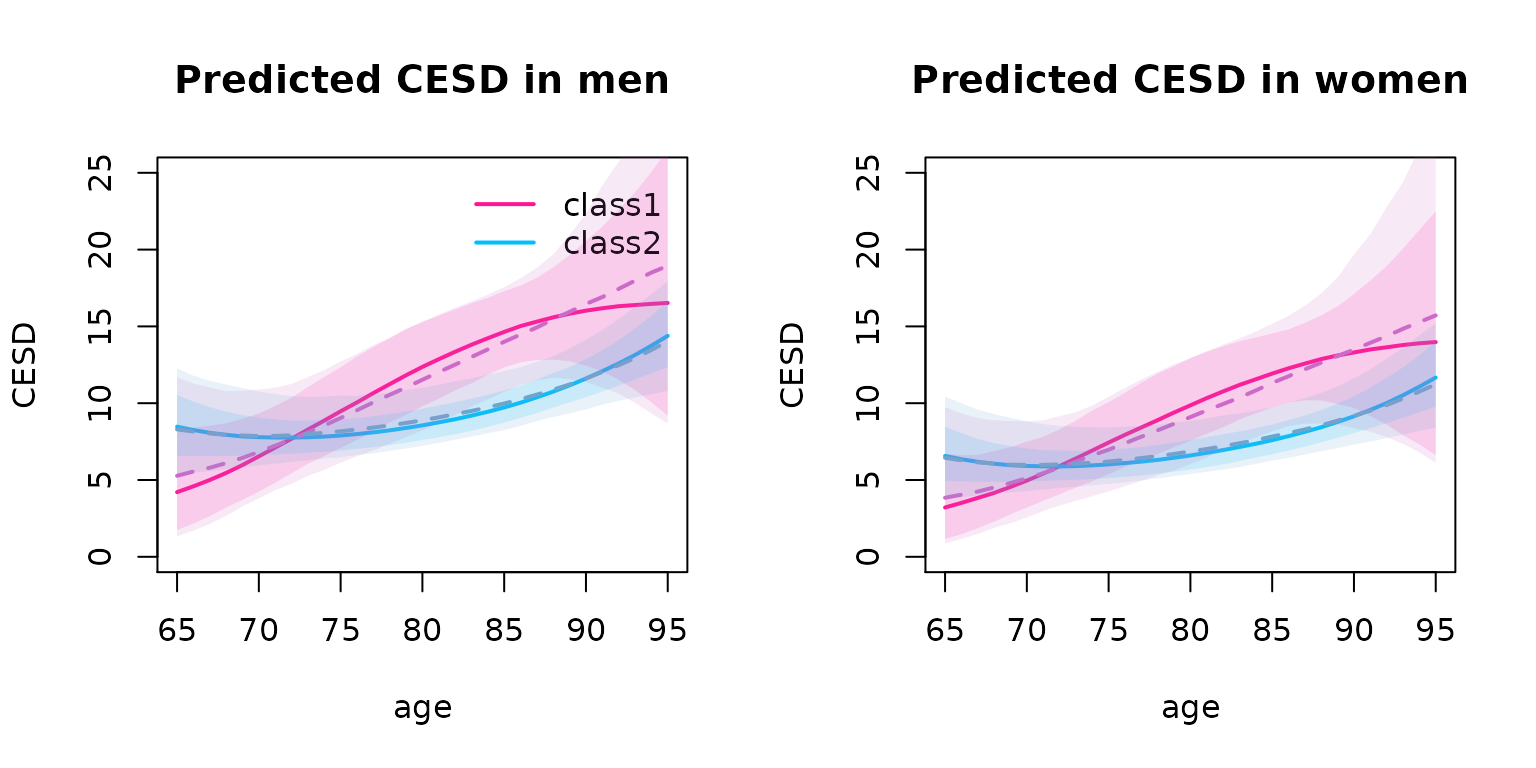
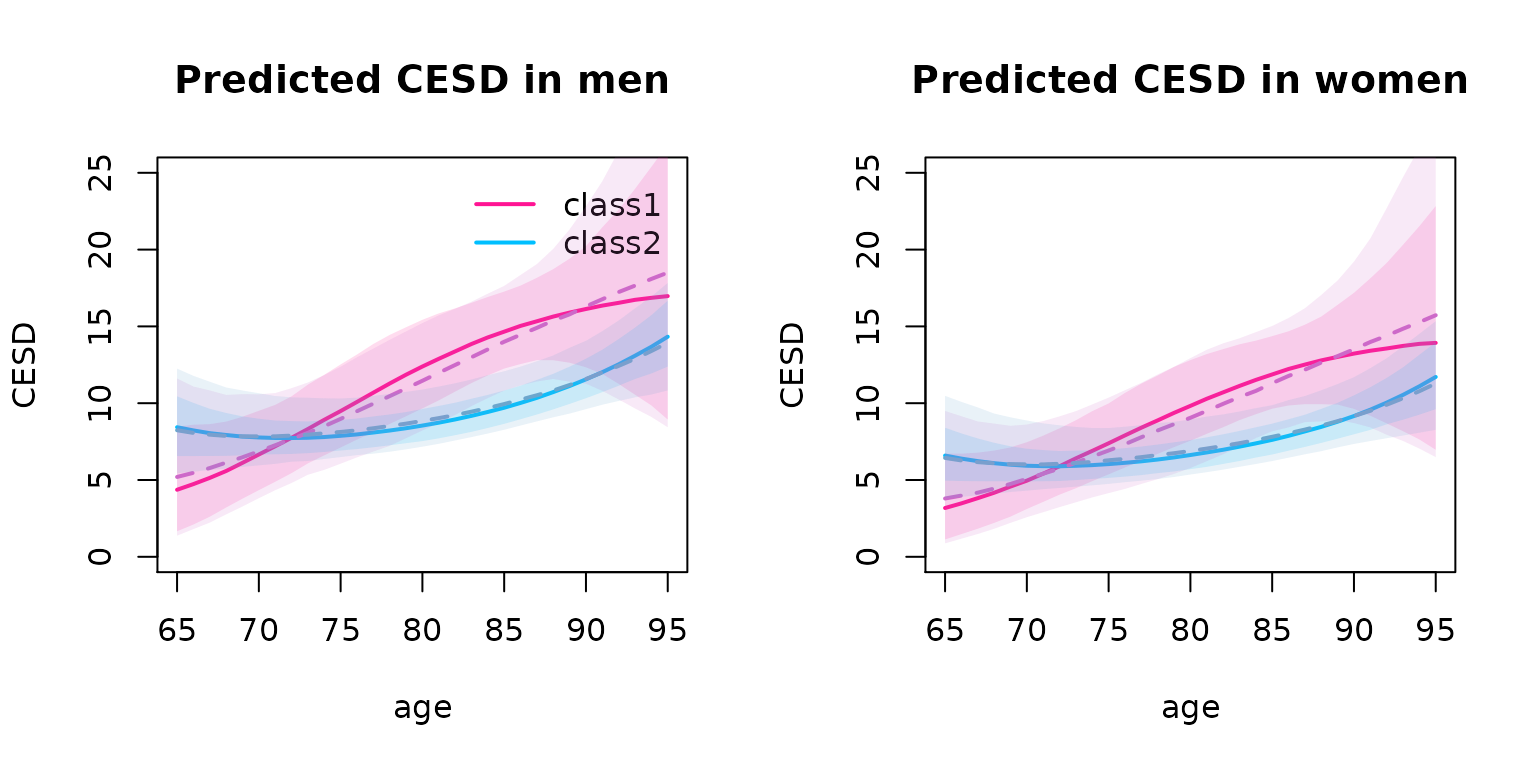
html link

diff --git a/docs/articles/secondary_model_with_externVar.html b/docs/articles/secondary_model_with_externVar.html
@@ -85,7 +85,7 @@
                         <h4 data-toc-skip class="author">Cecile Proust-Lima, Maris Dussartre, Viviane Philipps</h4>
             
       
-      <small class="dont-index">Source: <a href="https://github.com/CecileProust-Lima/lcmm/blob/HEAD/vignettes/secondary_model_with_externVar.Rmd" class="external-link"><code>vignettes/secondary_model_with_externVar.Rmd</code></a></small>
+      <small class="dont-index">Source: <a href="https://github.com/CecileProust-Lima/lcmm/blob/HEAD/../vignettes/secondary_model_with_externVar.Rmd" class="external-link"><code>../vignettes/secondary_model_with_externVar.Rmd</code></a></small>
       <div class="d-none name"><code>secondary_model_with_externVar.Rmd</code></div>
     </div>
 
@@ -211,7 +211,7 @@ The posterior classification finds a small class (12.4% of the sample) character
 In this example, we want to assess the profiles of trajectory of depressive symptomatology (CES-D scale for Center for Epidemiologic Studies - Depression) in the two classes identified on MMSE.
 </p>
 <p align="justify">
-CES-D is repeated at each occasion, we thus need a linear mixed model. The specification is the same as in all the other functions of the package. Given the strong asymmetry in the distribution of CES-D (see vignette <a href="articles/pre_normalizing.html">Pre-normalizing a dependent variable using lcmm</a>), we use a curvilinear mixed model with a normalizing link function approximated by splines (i.e., same as lcmm function).
+CES-D is repeated at each occasion, we thus need a linear mixed model. The specification is the same as in all the other functions of the package. Given the strong asymmetry in the distribution of CES-D (see vignette <a href="pre_normalizing.html">Pre-normalizing a dependent variable using lcmm</a>), we use a curvilinear mixed model with a normalizing link function approximated by splines (i.e., same as lcmm function).
 </p>
 <p align="justify">
 We specify a quadratic model and adjust for sex (male). The latent class predictor is specified through “mixture” argument.
@@ -636,7 +636,7 @@ With the conditional regression, the estimated parameters are slightly different
 <span><span class="co">#&gt;  </span></span>
 <span><span class="co">#&gt; Iteration process: </span></span>
 <span><span class="co">#&gt;      Convergence criteria satisfied </span></span>
-<span><span class="co">#&gt;      Proportion of convergence on bootstrap iterations (%)= 99.5 </span></span>
+<span><span class="co">#&gt;      Proportion of convergence on bootstrap iterations (%)= 100 </span></span>
 <span><span class="co">#&gt;  </span></span>
 <span><span class="co">#&gt; Goodness-of-fit statistics: </span></span>
 <span><span class="co">#&gt;      maximum log-likelihood: -180.44  </span></span>
@@ -651,19 +651,19 @@ With the conditional regression, the estimated parameters are slightly different
 <span><span class="co">#&gt; (the class of reference is the last class) </span></span>
 <span><span class="co">#&gt; </span></span>
 <span><span class="co">#&gt;                      coef    Se     Wald p-value</span></span>
-<span><span class="co">#&gt; intercept class1 -1.51721 0.57259 -2.650 0.00806</span></span>
-<span><span class="co">#&gt; male class1      -1.44882 0.56739 -2.553 0.01066</span></span>
-<span><span class="co">#&gt; CEP class1        0.86248 0.60579  1.424 0.15452</span></span></code></pre></div>
+<span><span class="co">#&gt; intercept class1 -1.57512 0.57809 -2.725 0.00644</span></span>
+<span><span class="co">#&gt; male class1      -1.43894 0.57802 -2.489 0.01279</span></span>
+<span><span class="co">#&gt; CEP class1        0.87433 0.61569  1.420 0.15558</span></span></code></pre></div>
 <div class="sourceCode" id="cb19"><pre class="downlit sourceCode r">
 <code class="sourceCode R"><span><span class="fu"><a href="https://rdrr.io/r/base/cbind.html" class="external-link">cbind</a></span><span class="op">(</span><span class="va">Class2stage</span>,<span class="va">ClassCond</span><span class="op">)</span></span>
 <span><span class="co">#&gt;                      coef      Se   Wald p-value     coef      Se   Wald</span></span>
-<span><span class="co">#&gt; intercept class1 -1.68614 0.50262 -3.355 0.00079 -1.51721 0.57259 -2.650</span></span>
-<span><span class="co">#&gt; male class1      -1.09687 0.44277 -2.477 0.01324 -1.44882 0.56739 -2.553</span></span>
-<span><span class="co">#&gt; CEP class1        0.90387 0.50666  1.784 0.07443  0.86248 0.60579  1.424</span></span>
+<span><span class="co">#&gt; intercept class1 -1.68614 0.50262 -3.355 0.00079 -1.57512 0.57809 -2.725</span></span>
+<span><span class="co">#&gt; male class1      -1.09687 0.44277 -2.477 0.01324 -1.43894 0.57802 -2.489</span></span>
+<span><span class="co">#&gt; CEP class1        0.90387 0.50666  1.784 0.07443  0.87433 0.61569  1.420</span></span>
 <span><span class="co">#&gt;                  p-value</span></span>
-<span><span class="co">#&gt; intercept class1 0.00806</span></span>
-<span><span class="co">#&gt; male class1      0.01066</span></span>
-<span><span class="co">#&gt; CEP class1       0.15452</span></span></code></pre></div>
+<span><span class="co">#&gt; intercept class1 0.00644</span></span>
+<span><span class="co">#&gt; male class1      0.01279</span></span>
+<span><span class="co">#&gt; CEP class1       0.15558</span></span></code></pre></div>
 </div>
 </div>
 <div class="section level2">
